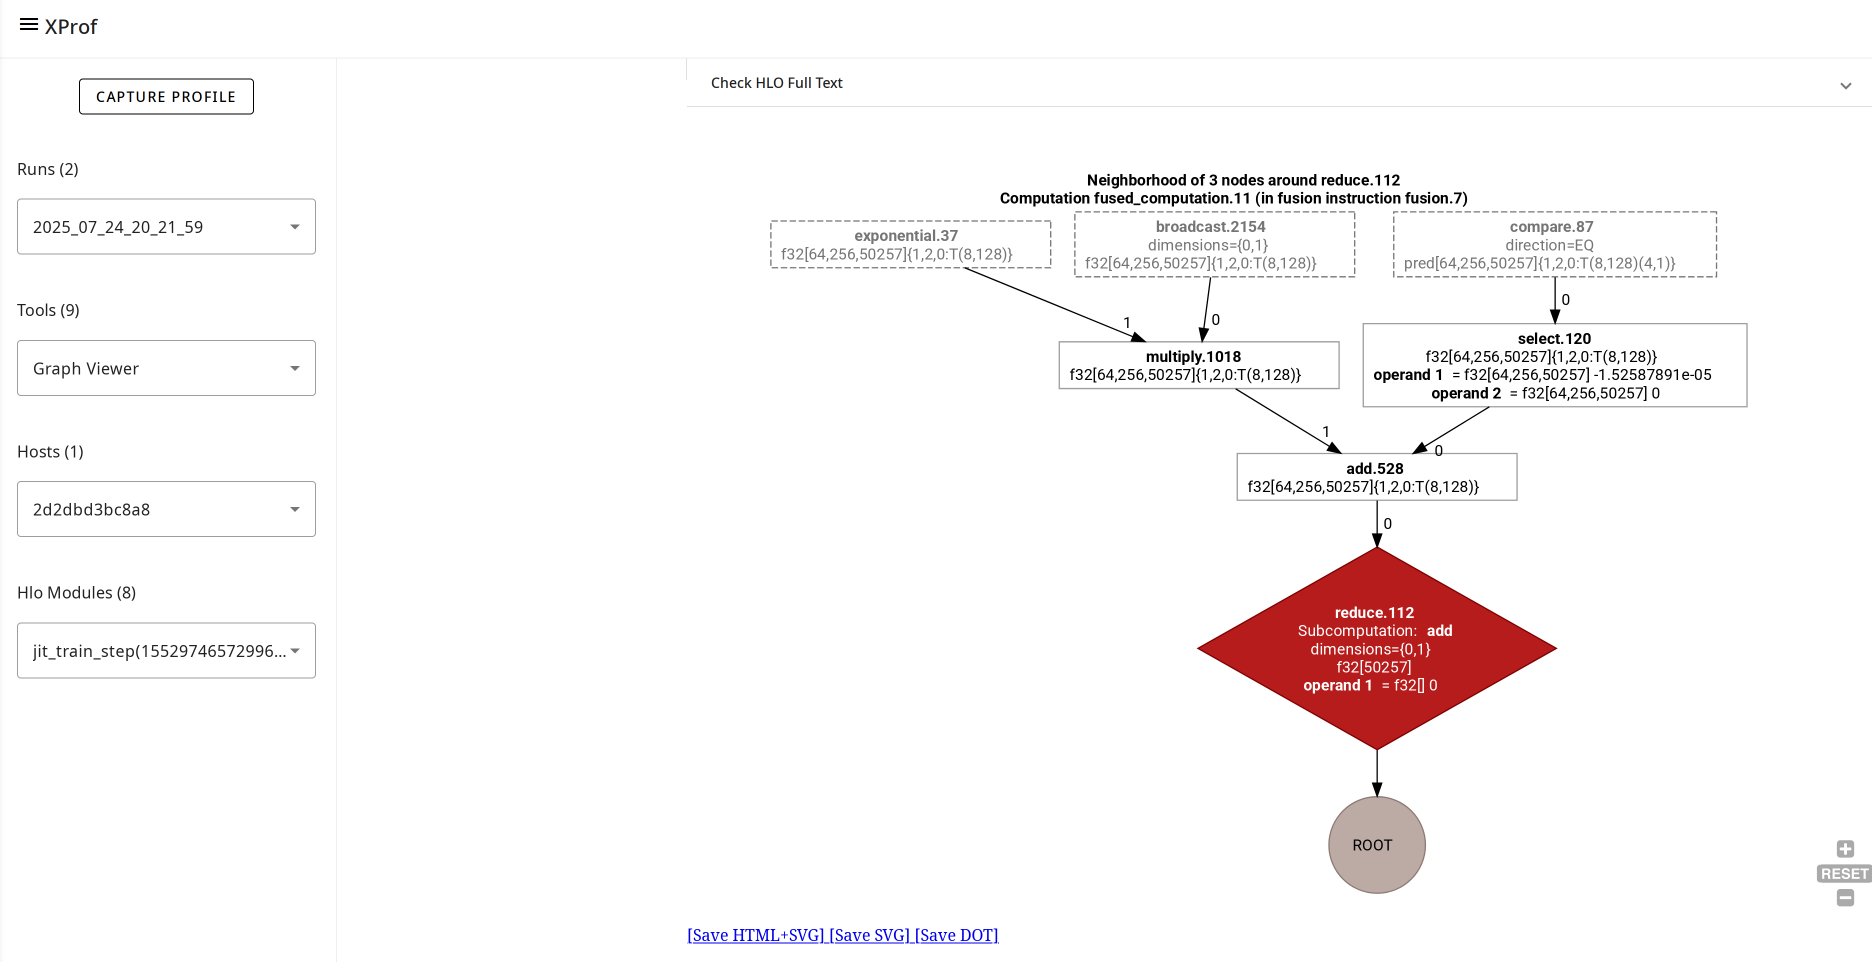
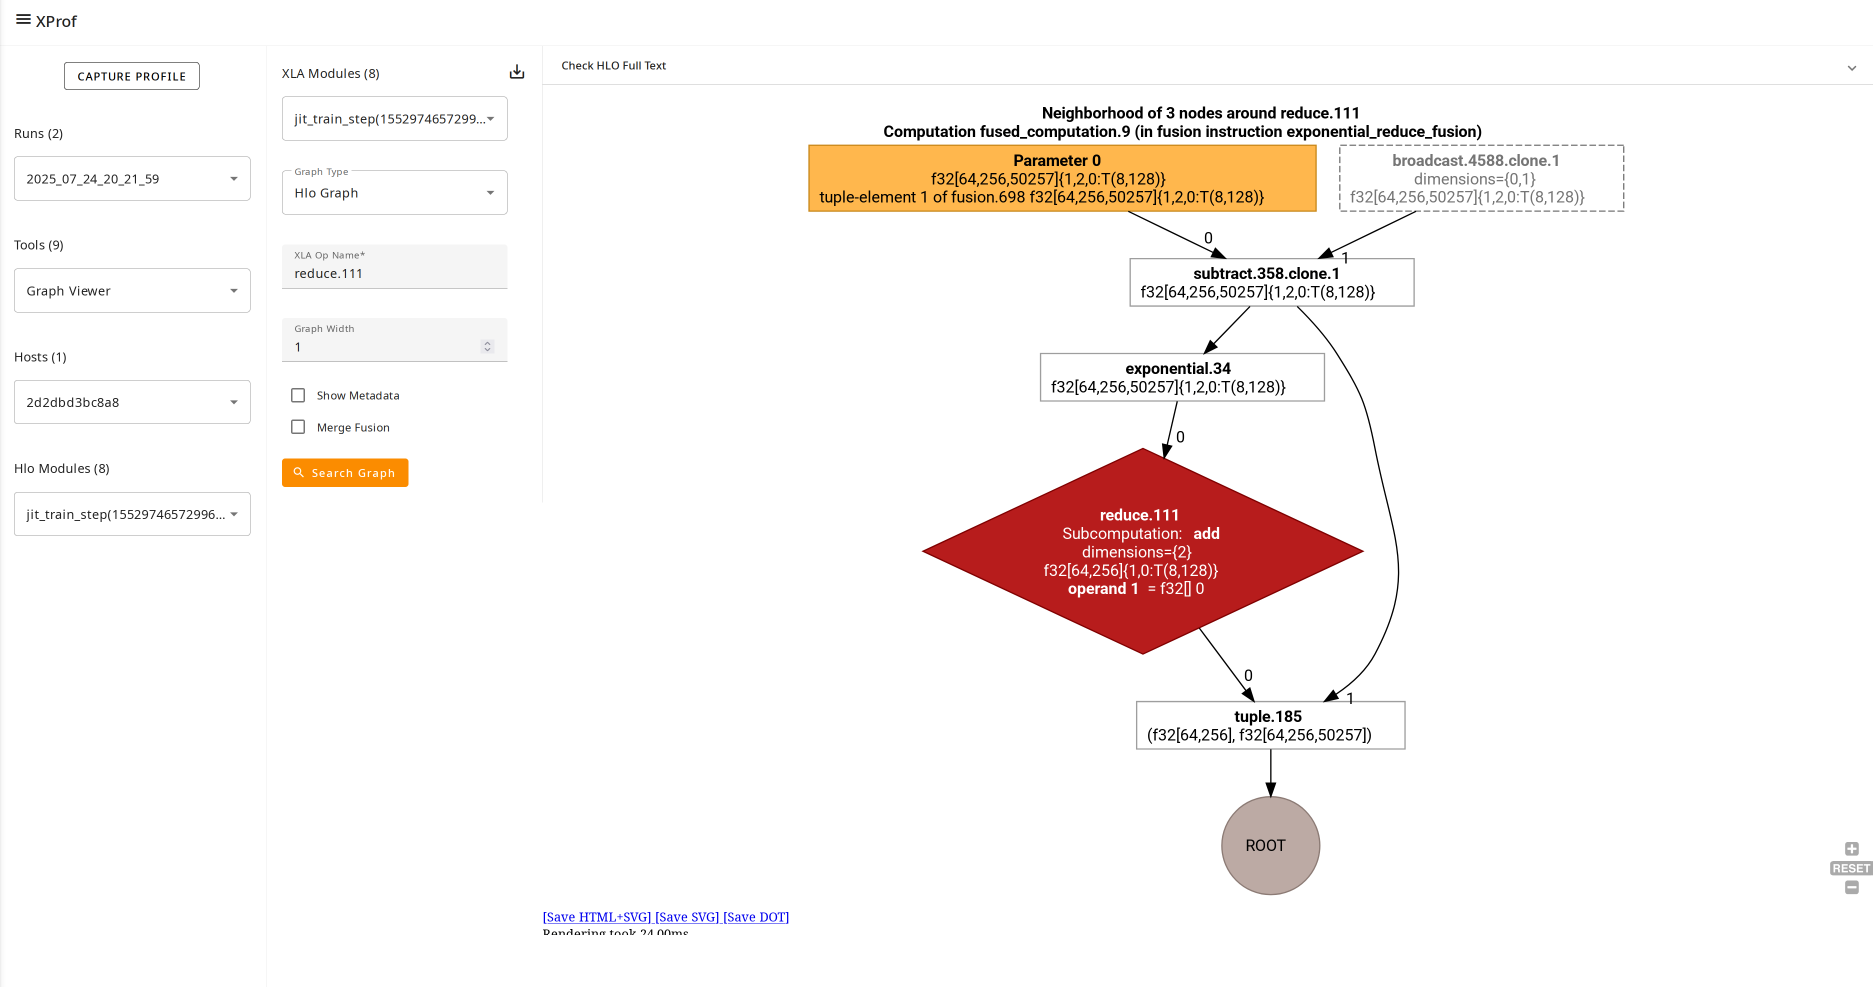
Add screenshots for Graph Viewer

diff --git a/docs/graph_viewer.md b/docs/graph_viewer.md
@@ -13,7 +13,7 @@ Both TPU and GPU are supported.
 
 Graph Viewer can be controlled with the following options:
 
-1. An **Op Name** box, where you enter the name of an
+1. An **XLA Op Name** box, where you enter the name of an
 operation to select it as the primary node and visualize its neighbors. Pressing
 enter after typing the op name will visualize the surrounding nodes.
 
@@ -21,25 +21,28 @@ enter after typing the op name will visualize the surrounding nodes.
 controls the maximum distance of nodes from the primary node that is included in
 the visualization.
 
-1. A **Metadata** selector, which you
-use to toggle the display of operation metadata included by the compiler, if
-any. Note that you need to click “Search Graph” again after selecting this
-checkbox.
+1. A **Show Metadata** toggle, which you use to toggle the display of operation
+metadata included by the compiler, if any. Note that you need to click “Search
+Graph” again after selecting this checkbox.
 
 1. A **Merge Fusion** checkbox that you can use to collapse or expand the
 components of fused ops. Note that you will need to click “Search Graph” again
 after toggling this checkbox.
 
-1. Zoom in/out buttons or keys, though you can
-also use your mouse to zoom.
+1. Zoom in/out buttons or keys, though you can also use your mouse to zoom.
 
-1. Links to download the graph as SVG or dot files.
+1. Links to download the graph as HTML+SVG, SVG or dot files.
 
 1. By using the search functionality, you can quickly locate and focus on
 specific operations within the potentially large graph.
 
-1. To freeze the runtime
-data panel on a particular op, right click on the op.
+1. To freeze the runtime data panel on a particular op, right click on the op.
+
+By clicking the **Check HLO Full Text** button at the top of the viewer, you
+can see the short or long HLO text representation of the graph, which can be
+useful for debugging.
+
+![Graph Viewer HLO Full Text](images/graph_viewer_hlo_full_text.png)
 
 ### Using Graph Viewer
 
@@ -60,6 +63,8 @@ the
 [multiple layers of transformation](https://openxla.org/xla/architecture#how_it_works)
 that your Python program undergoes on its way to generating an accelerator
 executable.
+
+![Graph Viewer showing the user code line corresponding to the op](images/graph_viewer_hover.png)
 
 Note that the profiler receives HLO-level information from an “optimized HLO”
 graph, close to the point where it is ready to be lowered to
